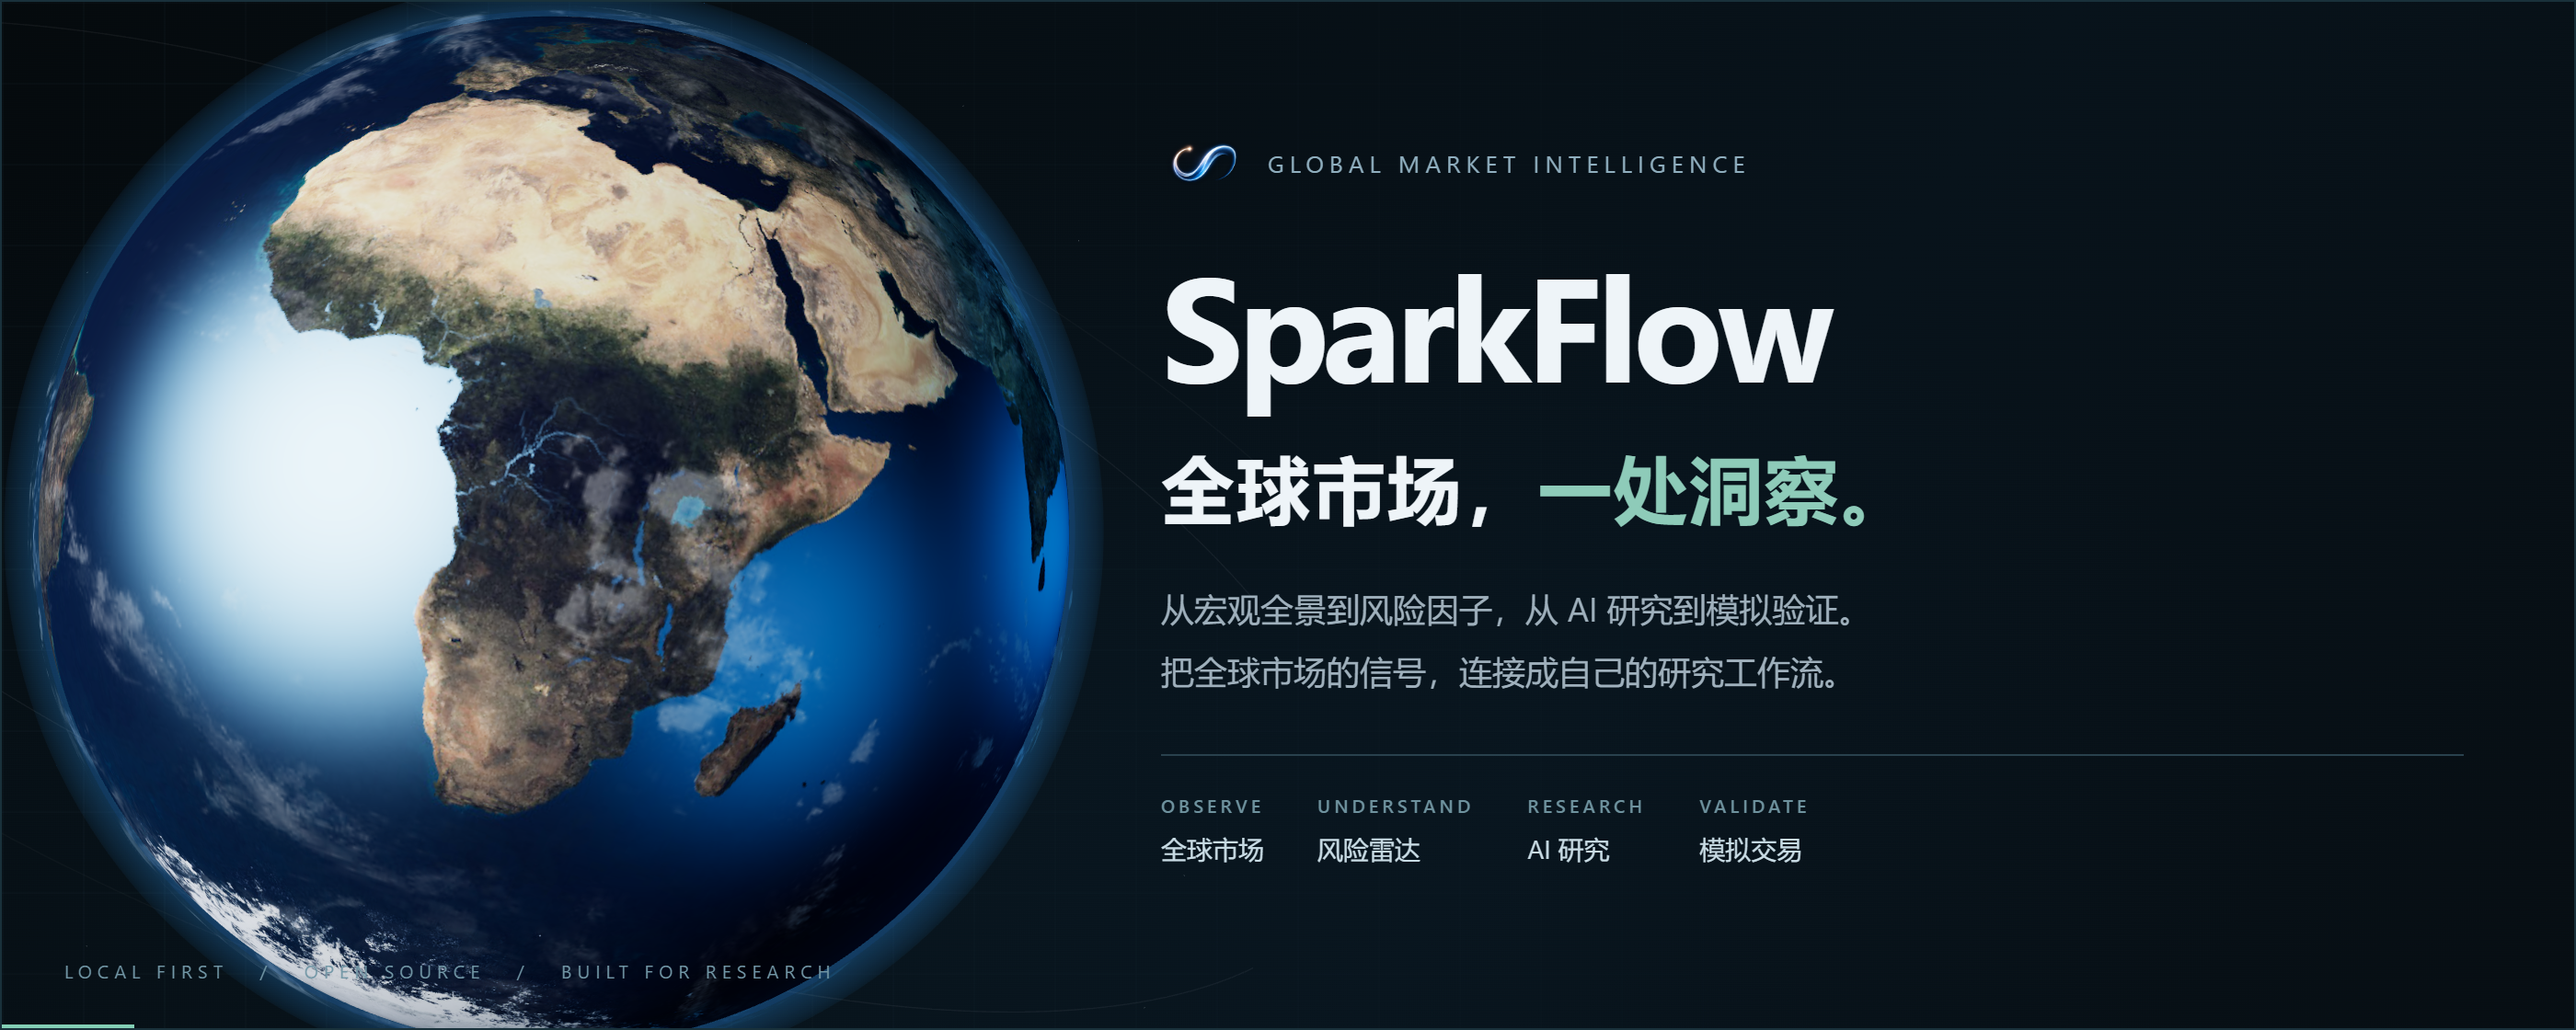
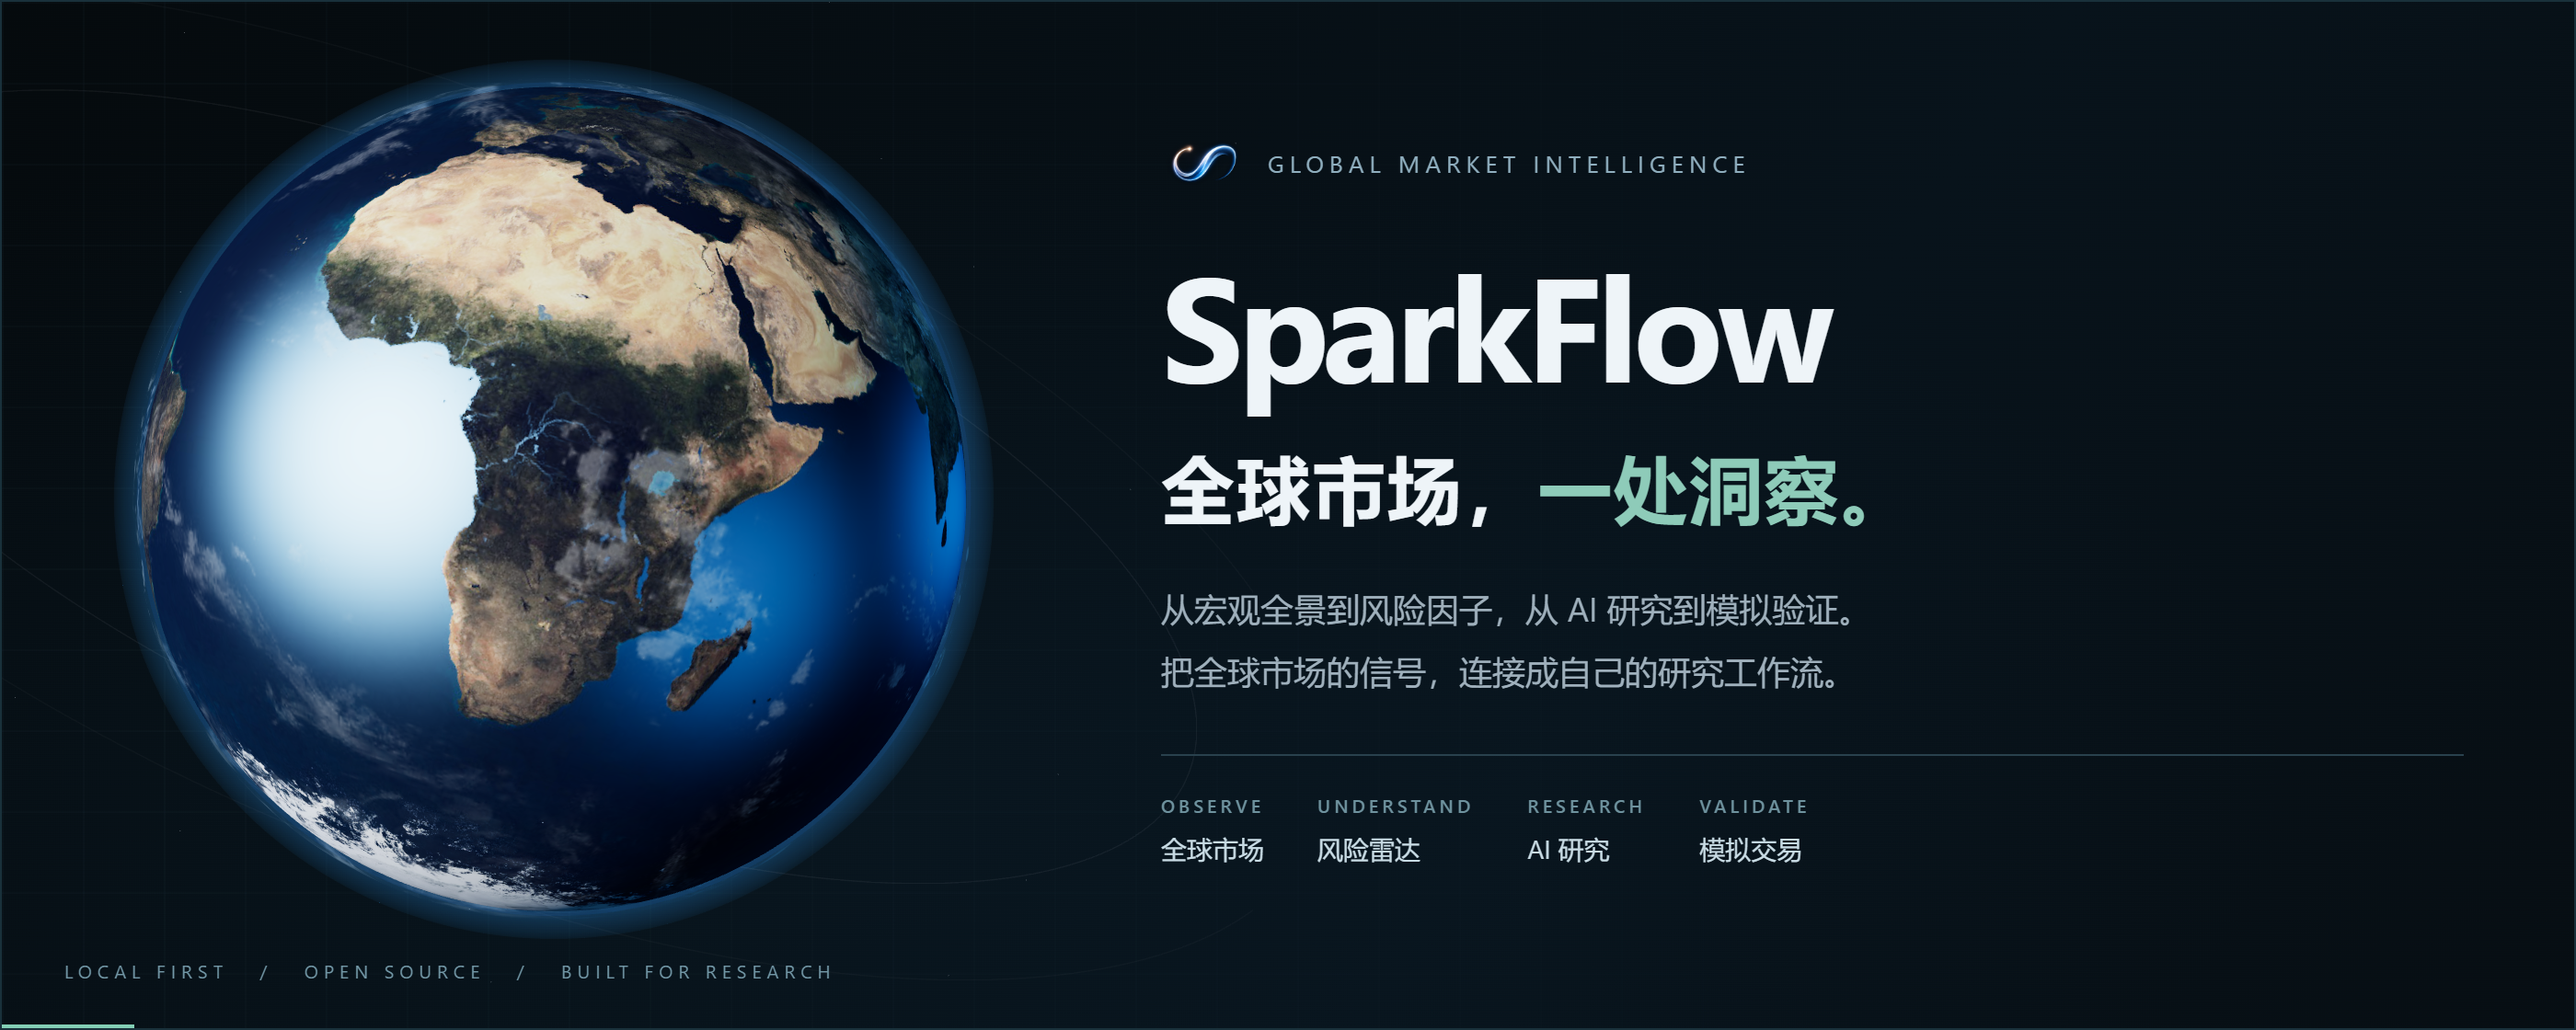
docs: reduce globe size in README cover

Changed region(s): [[0.0, 0.0, 0.435, 1.0], [0.2796, 0.8438, 0.3729, 1.0]]

diff --git a/docs/design/readme/hero.html b/docs/design/readme/hero.html
@@ -7,7 +7,7 @@
 *{box-sizing:border-box}body{margin:0;background:#050b10;color:#eef4f8;font-family:"Segoe UI","Microsoft YaHei",sans-serif}
 main{width:1400px;height:560px;position:relative;overflow:hidden;background:radial-gradient(ellipse at 28% 75%,#102d4233,transparent 60%),linear-gradient(125deg,#050a0d,#08131b 63%,#070e13);border:1px solid #19313b}
 main:before{content:"";position:absolute;inset:0;background-image:linear-gradient(#57849c08 1px,transparent 1px),linear-gradient(90deg,#57849c08 1px,transparent 1px);background-size:44px 44px;mask-image:linear-gradient(90deg,#000,transparent 75%)}
-.earth{position:absolute;left:-80px;top:-100px;width:760px;height:760px}.earth>div{position:absolute;inset:0;width:100%;height:100%}
+.earth{position:absolute;left:-80px;top:-40px;width:760px;height:608px}.earth>div{position:absolute;inset:0;width:100%;height:100%}
 .copy{position:absolute;left:630px;right:60px;top:64px}.eyebrow{display:flex;align-items:center;gap:12px;color:#8faebe;font-size:13px;letter-spacing:3px}.eyebrow img{width:46px;height:46px;object-fit:contain}
 h1{font-size:80px;line-height:1.12;letter-spacing:-3px;margin:20px 0 17px;font-weight:650}h2{font-size:40px;line-height:1.35;letter-spacing:1px;margin:0 0 22px;font-weight:550}h2 span{color:#8ecbb9}
 p{color:#9fb0bc;line-height:1.9;font-size:18px;margin:0}.capabilities{border-top:1px solid #29414d;margin-top:28px;padding-top:20px;display:flex;gap:29px;color:#c9dce5;font-size:14px}.capabilities span{white-space:nowrap}.capabilities b{font-size:10px;letter-spacing:2px;display:block;color:#6e929e;margin-bottom:7px;font-weight:500}
